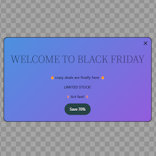
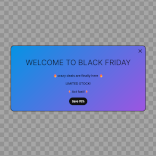
template images for the demo content

diff --git a/includes/widgets/class-bar.php b/includes/widgets/class-bar.php
@@ -104,7 +104,7 @@ class Bar extends Base_Widget {
             array(
                 'name' => 'empty',
                 'title' => __( 'Empty', 'fooconvert' ),
-                'description' => __( 'Empty', 'fooconvert' ),
+                'description' => __( 'A blank slate that you can use to build your own bar from scratch.', 'fooconvert' ),
                 'attributes' => array(
                     'template' => 'empty'
                 ),
@@ -125,7 +125,7 @@ class Bar extends Base_Widget {
                 'name' => 'black_friday_bar',
                 'title' => __( 'Black Friday Bar', 'fooconvert' ),
                 'description' => __( 'A typical Black Friday bar to help drive sales.', 'fooconvert' ),
-                'icon' => '',
+                'thumbnail' => FOOCONVERT_ASSETS_URL . 'media/templates/black_friday_bar.png',
                 'attributes' => array(
                     'viewState' => 'open',
                     'settings' => array(
@@ -230,7 +230,7 @@ class Bar extends Base_Widget {
                 'name' => 'cookie_consent_bar',
                 'title' => __( 'Cookie Consent Bar', 'fooconvert' ),
                 'description' => __( 'A simple bottom bar that is dismissed when the button is clicked.', 'fooconvert' ),
-                'icon' => '',
+                'thumbnail' => FOOCONVERT_ASSETS_URL . 'media/templates/cookie_consent_bar.png',
                 'attributes' => array(
                     'viewState' => 'open',
                     'template' => 'cookie_consent_bar',

diff --git a/includes/widgets/class-flyout.php b/includes/widgets/class-flyout.php
@@ -104,7 +104,7 @@ class Flyout extends Base_Widget {
             array(
                 'name' => 'empty',
                 'title' => __( 'Empty', 'fooconvert' ),
-                'description' => __( 'Empty', 'fooconvert' ),
+                'description' => __( 'A blank slate that you can use to build your own flyout from scratch.', 'fooconvert' ),
                 'attributes' => array(
                     'template' => 'empty'
                 ),
@@ -125,7 +125,7 @@ class Flyout extends Base_Widget {
                 'name' => 'black_friday_flyout',
                 'title' => __( 'Black Friday Flyout', 'fooconvert' ),
                 'description' => __( 'A typical Black Friday flyout to help drive sales.', 'fooconvert' ),
-                'icon' => '',
+                'thumbnail' => FOOCONVERT_ASSETS_URL . 'media/templates/black_friday_flyout.png',
                 'attributes' => array(
                     'viewState' => 'open',
                     'settings' => array(

diff --git a/includes/widgets/class-popup.php b/includes/widgets/class-popup.php
@@ -98,10 +98,9 @@ class Popup extends Base_Widget {
     function get_editor_variations() : array {
         return apply_filters('fooconvert_editor_variations-' . $this->get_post_type(), array(
             array(
-                'thumbnail' => FOOCONVERT_ASSETS_URL . 'media/templates/empty.png',
                 'name' => 'empty',
                 'title' => __( 'Empty', 'fooconvert' ),
-                'description' => __( 'Empty', 'fooconvert' ),
+                'description' => __( 'A blank slate that you can use to build your own popup from scratch.', 'fooconvert' ),
                 'attributes' => array(
                     'template' => 'empty'
                 ),
